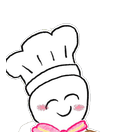
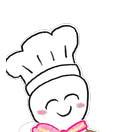
Chef faces: rosy cheeks sit under his eyes, following the tilt of his face

Changed region(s): [[0.5455, 0.7576, 0.6667, 0.8485], [0.2727, 0.7879, 0.3636, 0.8788]]

diff --git a/initiative.html b/initiative.html
@@ -18,7 +18,7 @@
   <link rel="preconnect" href="https://fonts.googleapis.com">
   <link rel="preconnect" href="https://fonts.gstatic.com" crossorigin>
   <link href="https://fonts.googleapis.com/css2?family=Rubik:wght@400;500;700;800&display=swap" rel="stylesheet">
-  <link rel="stylesheet" href="css/style.css?v=10271255">
+  <link rel="stylesheet" href="css/style.css?v=10271258">
 </head>
 <body class="lesson-page brand-bg">
   <!-- like a lesson: close on one side, progress across the top, event name once you scroll -->
@@ -106,9 +106,9 @@
     <button class="btn btn-primary btn-wide" type="button" id="doneBtn">متابعة</button>
   </section>
 
-  <script src="js/config.js?v=10271255"></script>
-  <script src="js/store.js?v=10271255"></script>
-  <script src="js/ui.js?v=10271255"></script>
-  <script src="js/initiative.js?v=10271255"></script>
+  <script src="js/config.js?v=10271258"></script>
+  <script src="js/store.js?v=10271258"></script>
+  <script src="js/ui.js?v=10271258"></script>
+  <script src="js/initiative.js?v=10271258"></script>
 </body>
 </html>

diff --git a/index.html b/index.html
@@ -18,7 +18,7 @@
   <link rel="preconnect" href="https://fonts.googleapis.com">
   <link rel="preconnect" href="https://fonts.gstatic.com" crossorigin>
   <link href="https://fonts.googleapis.com/css2?family=Rubik:wght@400;500;700;800&display=swap" rel="stylesheet">
-  <link rel="stylesheet" href="css/style.css?v=10271255">
+  <link rel="stylesheet" href="css/style.css?v=10271258">
 </head>
 <body class="brand-bg">
   <!-- white band with their hand-drawn squiggle along the bottom -->
@@ -62,9 +62,9 @@
     </div>
   </main>
 
-  <script src="js/config.js?v=10271255"></script>
-  <script src="js/store.js?v=10271255"></script>
-  <script src="js/ui.js?v=10271255"></script>
-  <script src="js/home.js?v=10271255"></script>
+  <script src="js/config.js?v=10271258"></script>
+  <script src="js/store.js?v=10271258"></script>
+  <script src="js/ui.js?v=10271258"></script>
+  <script src="js/home.js?v=10271258"></script>
 </body>
 </html>

diff --git a/admin.html b/admin.html
@@ -11,7 +11,7 @@
   <link rel="preconnect" href="https://fonts.googleapis.com">
   <link rel="preconnect" href="https://fonts.gstatic.com" crossorigin>
   <link href="https://fonts.googleapis.com/css2?family=Rubik:wght@400;500;700;800&display=swap" rel="stylesheet">
-  <link rel="stylesheet" href="css/style.css?v=10271255">
+  <link rel="stylesheet" href="css/style.css?v=10271258">
 </head>
 <body class="admin-page">
   <header class="site-head">
@@ -51,9 +51,9 @@
   </main>
 
   <script>window.KBF_ADMIN = true;</script>
-  <script src="js/config.js?v=10271255"></script>
-  <script src="js/store.js?v=10271255"></script>
-  <script src="js/ui.js?v=10271255"></script>
-  <script src="js/admin.js?v=10271255"></script>
+  <script src="js/config.js?v=10271258"></script>
+  <script src="js/store.js?v=10271258"></script>
+  <script src="js/ui.js?v=10271258"></script>
+  <script src="js/admin.js?v=10271258"></script>
 </body>
 </html>

diff --git a/js/initiative.js b/js/initiative.js
@@ -325,7 +325,7 @@
   ];
   const face = (name, i) => {
     const [img, bg] = FACES[(i == null ? hash(name) : i) % FACES.length];
-    return `<span class="avatar face" style="--c:${bg}"><img src="img/faces/${img}.png" alt=""></span>`;
+    return `<span class="avatar face" style="--c:${bg}"><img src="img/faces/${img}.png?v=2" alt=""></span>`;
   };
 
   function renderList() {
